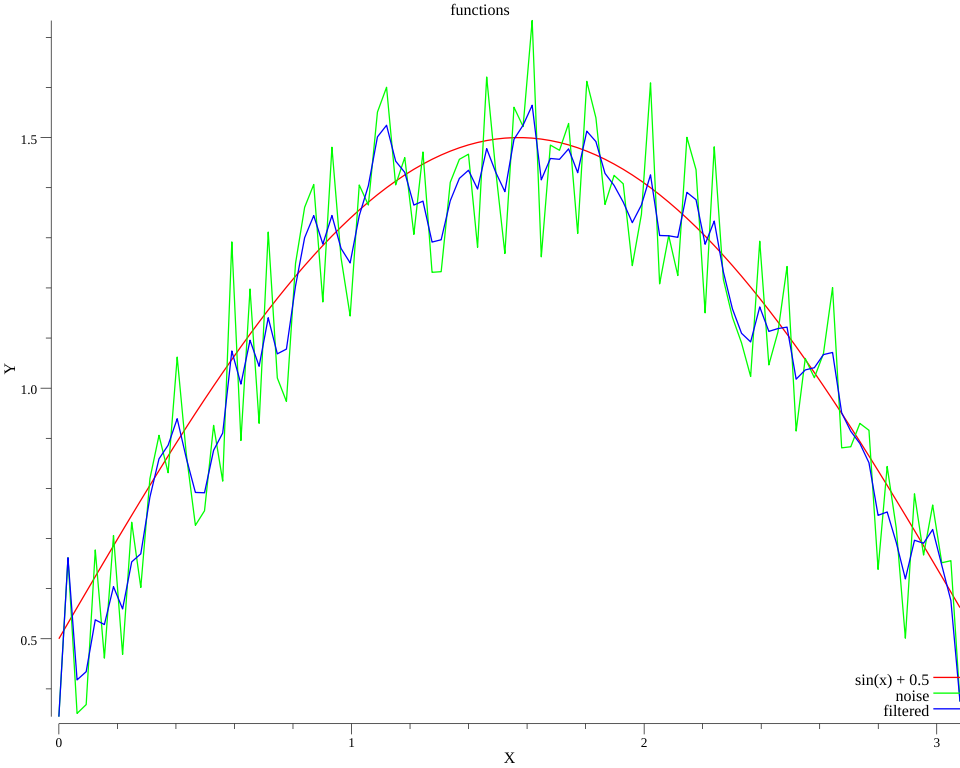
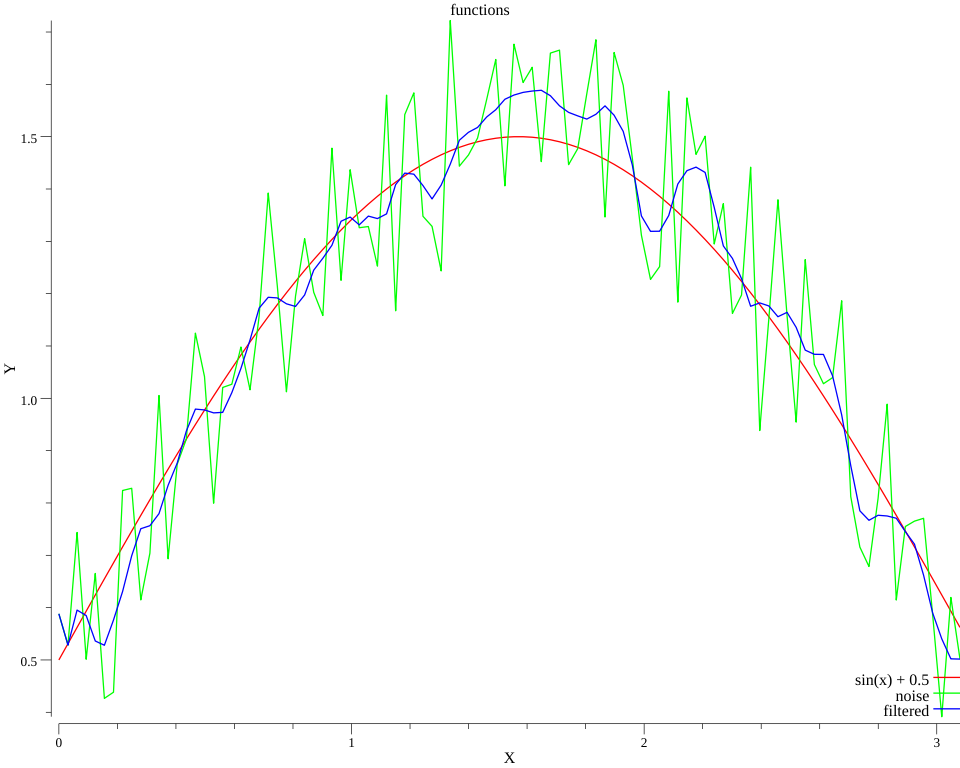
fix of finding the minimum J

diff --git a/algorithm.go b/algorithm.go
@@ -38,6 +38,7 @@ func getFiltered (input map[string]float64, noiseFunc []float64) minEl {
 		fmt.Println("alpha: ", filtered[lambda].alpha)
 		fmt.Println("W: ", filtered[lambda].W)
 		fmt.Println("D: ", filtered[lambda].D)
+		fmt.Println("J: ", filtered[lambda].J)
 		fmt.Println("dist: ", filtered[lambda].distance)
 		fmt.Println("-------------------------------------------------------------------------------------------------")
 		if minimal.distance > filtered[lambda].distance {
@@ -49,6 +50,7 @@ func getFiltered (input map[string]float64, noiseFunc []float64) minEl {
 	fmt.Println("alpha: ", minimal.alpha)
 	fmt.Println("W: ", minimal.W)
 	fmt.Println("D: ", minimal.D)
+	fmt.Println("J: ", minimal.J)
 	fmt.Println("dist: ", minimal.distance)
 	return minimal
 }
@@ -65,7 +67,7 @@ func getWeights(input map[string]float64, noiseFunc []float64, lambda float64) m
 		yFiltered = filteredSignal(alpha, input["K"], input["r"], noiseFunc)
 		W := getNoisiness(yFiltered, input["K"])
 		D := getDifferences(yFiltered, noiseFunc, input["K"])
-		J := getJ(lambda, min.W, min.D)
+		J := getJ(lambda, W, D)
 		if min.J > J {
 			min.J = J
 			min.W = W
